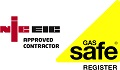
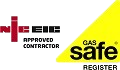
image changes

diff --git a/src/pages/home/homecomponent/TestimonialsAndConfidence.jsx b/src/pages/home/homecomponent/TestimonialsAndConfidence.jsx
@@ -51,41 +51,41 @@ const TestimonialsAndConfidence = () => {
       {/* LEFT SIDE */}
       <div className="lg:w-1/2 bg-[#03837E] text-white px-6 xl:px-20 py-10 space-y-8 relative z-10">
         <h2 className="text-2xl font-semibold">Building Confidence</h2>
-      <div className="relative group w-[90%] mx-auto max-w-[600px] overflow-hidden">
-  <img
-    src="/images/building.jpg"
-    alt="Modern Building"
-    className="aspect-[518/392] w-full object-cover transition-transform duration-500 ease-in-out group-hover:scale-105"
-  />
-  <div className="absolute top-4 left-4 bg-white px-4 py-2 text-[#03837E] text-[20px] font-semibold">
-    Founded In <br /> 1981
-  </div>
-</div>
-
-
-       <div className="flex flex-col space-y-6">
-  {leftContent.map((item, idx) => (
-    <article key={idx} className="flex flex-col">
-      <h3 className="text-[20px] font-semibold text-white flex items-center gap-2 ">
-        <svg
-          width="13"
-          height="13"
-          viewBox="0 0 13 13"
-          fill="none"
-          xmlns="http://www.w3.org/2000/svg"
-          className="flex-shrink-0"
-        >
-          <path
-            d="M6.5 0L12.1292 3.25V9.75L6.5 13L0.870835 9.75V3.25L6.5 0Z"
-            fill="white"
+        <div className="relative group w-[90%] mx-auto max-w-[600px] overflow-hidden">
+          <img
+            src="/images/building.jpg"
+            alt="Modern Building"
+            className="aspect-[518/392] w-full object-cover transition-transform duration-500 ease-in-out group-hover:scale-105"
           />
-        </svg>
-        {item.title}
-      </h3>
-      <p className=" mt-2 text-base leading-[28px] text-white">{item.description}</p>
-    </article>
-  ))}
-</div>
+          <div className="absolute top-4 left-4 bg-white px-4 py-2 text-[#03837E] text-[20px] font-semibold">
+            Founded In <br /> 1981
+          </div>
+        </div>
+
+
+        <div className="flex flex-col space-y-6">
+          {leftContent.map((item, idx) => (
+            <article key={idx} className="flex flex-col">
+              <h3 className="text-[20px] font-semibold text-white flex items-center gap-2 ">
+                <svg
+                  width="13"
+                  height="13"
+                  viewBox="0 0 13 13"
+                  fill="none"
+                  xmlns="http://www.w3.org/2000/svg"
+                  className="flex-shrink-0"
+                >
+                  <path
+                    d="M6.5 0L12.1292 3.25V9.75L6.5 13L0.870835 9.75V3.25L6.5 0Z"
+                    fill="white"
+                  />
+                </svg>
+                {item.title}
+              </h3>
+              <p className=" mt-2 text-base leading-[28px] text-white">{item.description}</p>
+            </article>
+          ))}
+        </div>
 
 
         {/* Top Triangle */}

diff --git a/src/pages/home/homecomponent/Accreditation.jsx b/src/pages/home/homecomponent/Accreditation.jsx
@@ -30,7 +30,7 @@ const Accreditation = () => {
             key={index}
             className="w-1/2 sm:w-1/2 md:w-1/3 lg:flex-1 flex justify-center items-center py-4"
           >
-            <div className="bg-[#FFFFFF] w-[140px] h-[78px] flex items-center justify-center m-1">
+            <div className="w-[140px] h-[78px] flex items-center justify-center m-1">
               <img
                 src={img}
                 alt="Accreditation Logo"
